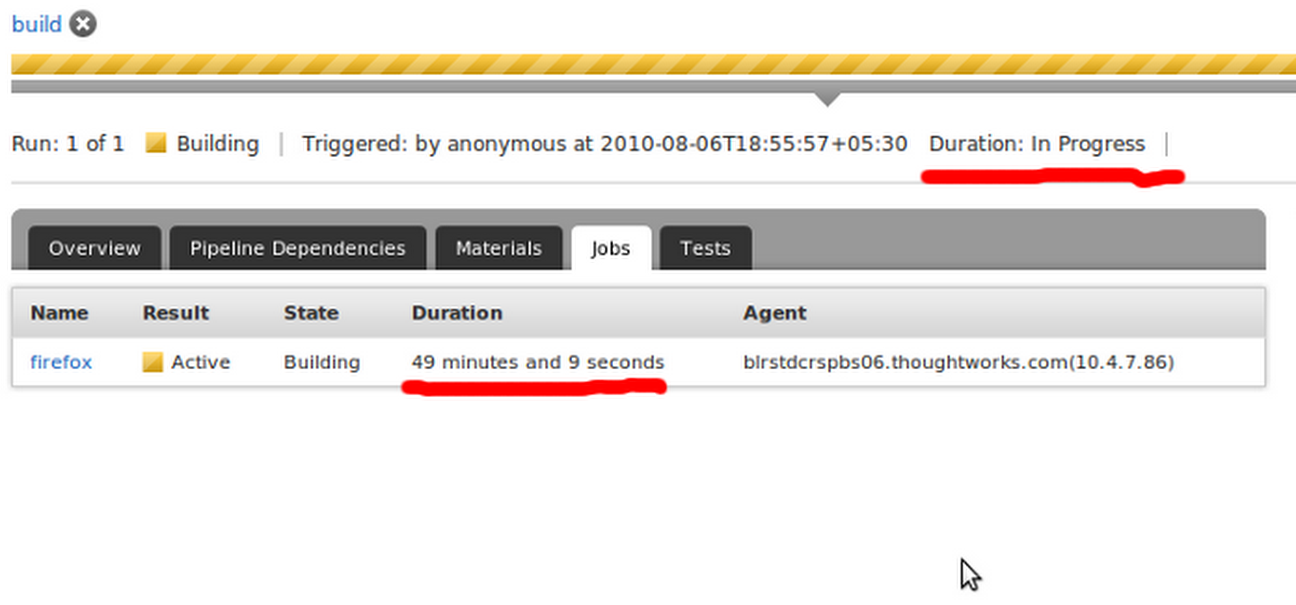
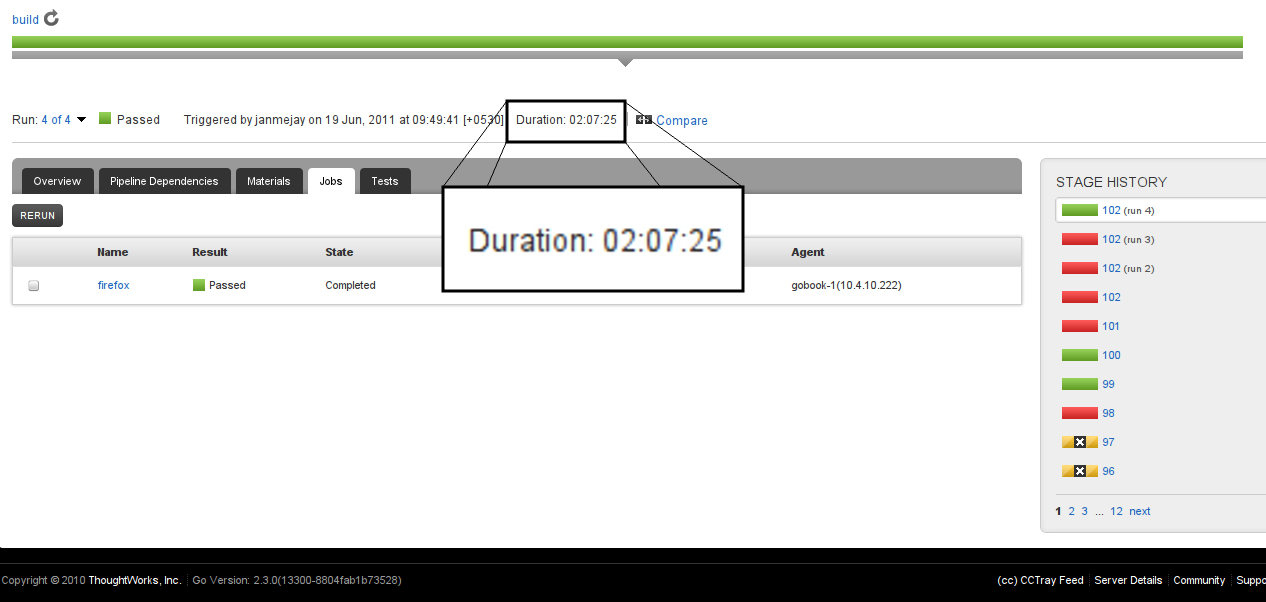
replaced screenshots with latest

diff --git a/tlb-intro.tex b/tlb-intro.tex
@@ -32,9 +32,6 @@
   blog: http://codehunk.wordpress.com
 }
 
-\date[xconf] 
-{Barcamp Bangalore 2011}
-
 \subject{Introduction to internals of TLB, and its usage}
 
 \AtBeginSubsection[]
@@ -93,7 +90,7 @@
     \par
     \pause
     \begin{center}
-      What is it doing that takes more than 49 minutes?
+      What is it doing that takes more than {\color{red}2 hours and 7 minutes}?
     \end{center}
   \end{centering}
 \end{frame}
@@ -117,7 +114,7 @@
     \begin{itemize}
     \item With just a few lines changed in the build script \& executing tests parallely.
       \pause
-    \item The longish build 'firefox' split into 6 partitions to executed parallely on 6 physical machines.
+    \item The longish build 'firefox' split into 16 partitions to executed parallely on 16 virtual machines.
     \end{itemize}
   \end{centering}
 \end{frame}
